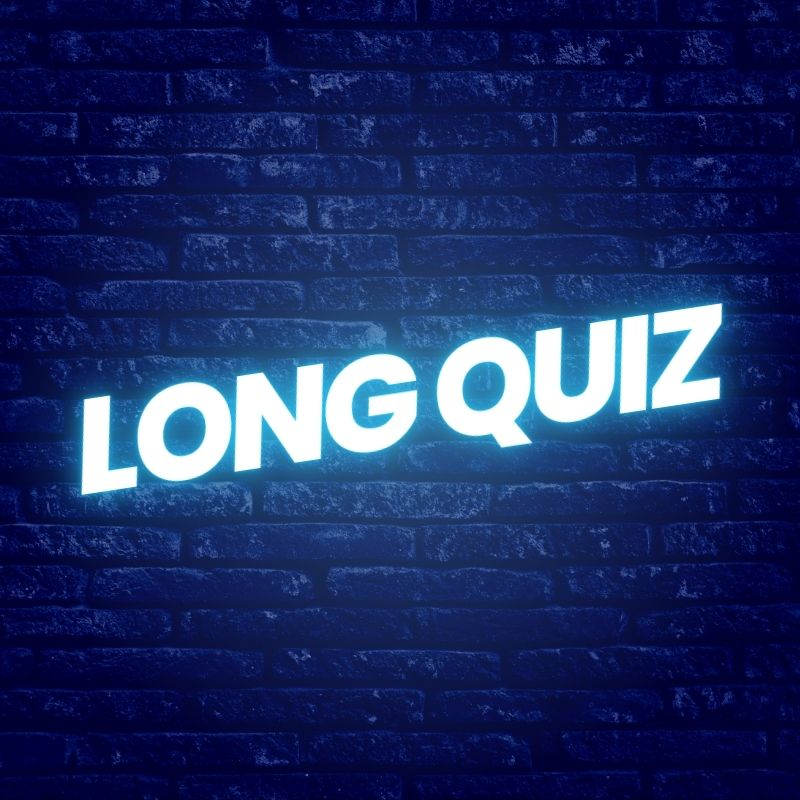
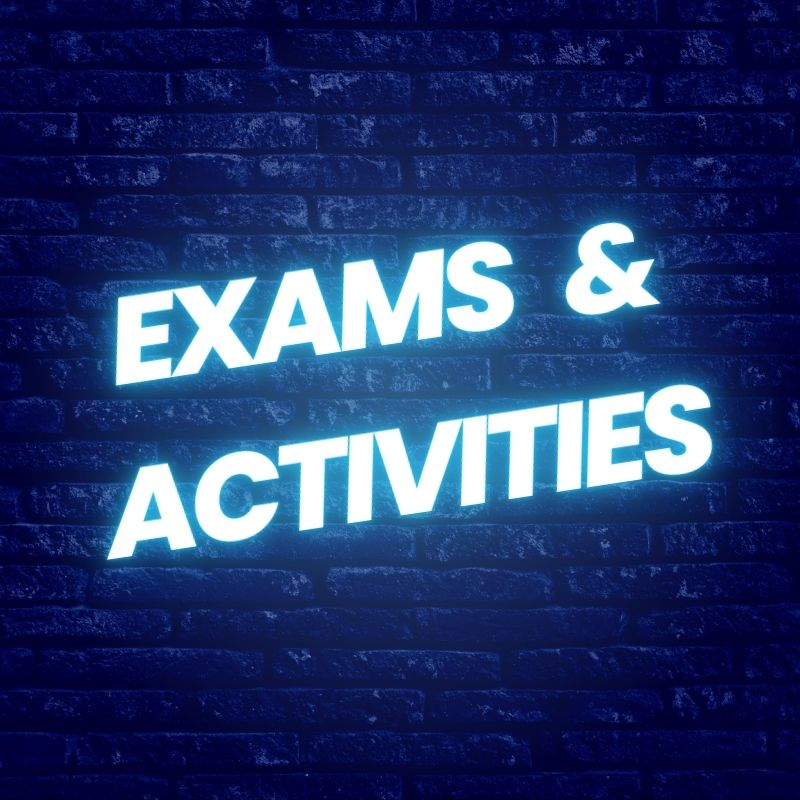
initial commit - Web Portfolio

Changed region(s): [[0.0625, 0.25, 0.9375, 0.7188]]

diff --git a/quizzes.html b/quizzes.html
@@ -50,6 +50,7 @@
                     <img src="pic/3.jpg" alt="">
                 </div>
             </div>
+          </div>
         </div>
     </section>
 
@@ -128,7 +129,10 @@
         "<img src='quizzes/posttest 5.jpg' alt='Score 2' class='slide-img'>"
       ],
       [
-        
+        "<img src='quizzes/longquiz.jpg' alt='Score 1' class='slide-img'>",
+        "<img src='quizzes/midterm.jpg' alt='Score 1' class='slide-img'>",
+        "<img src='activity/a1.jpg' alt='Score 1' class='slide-img'>",
+        "<img src='activity/a2.jpg' alt='Score 1' class='slide-img'>"
       ]
     ];
 
